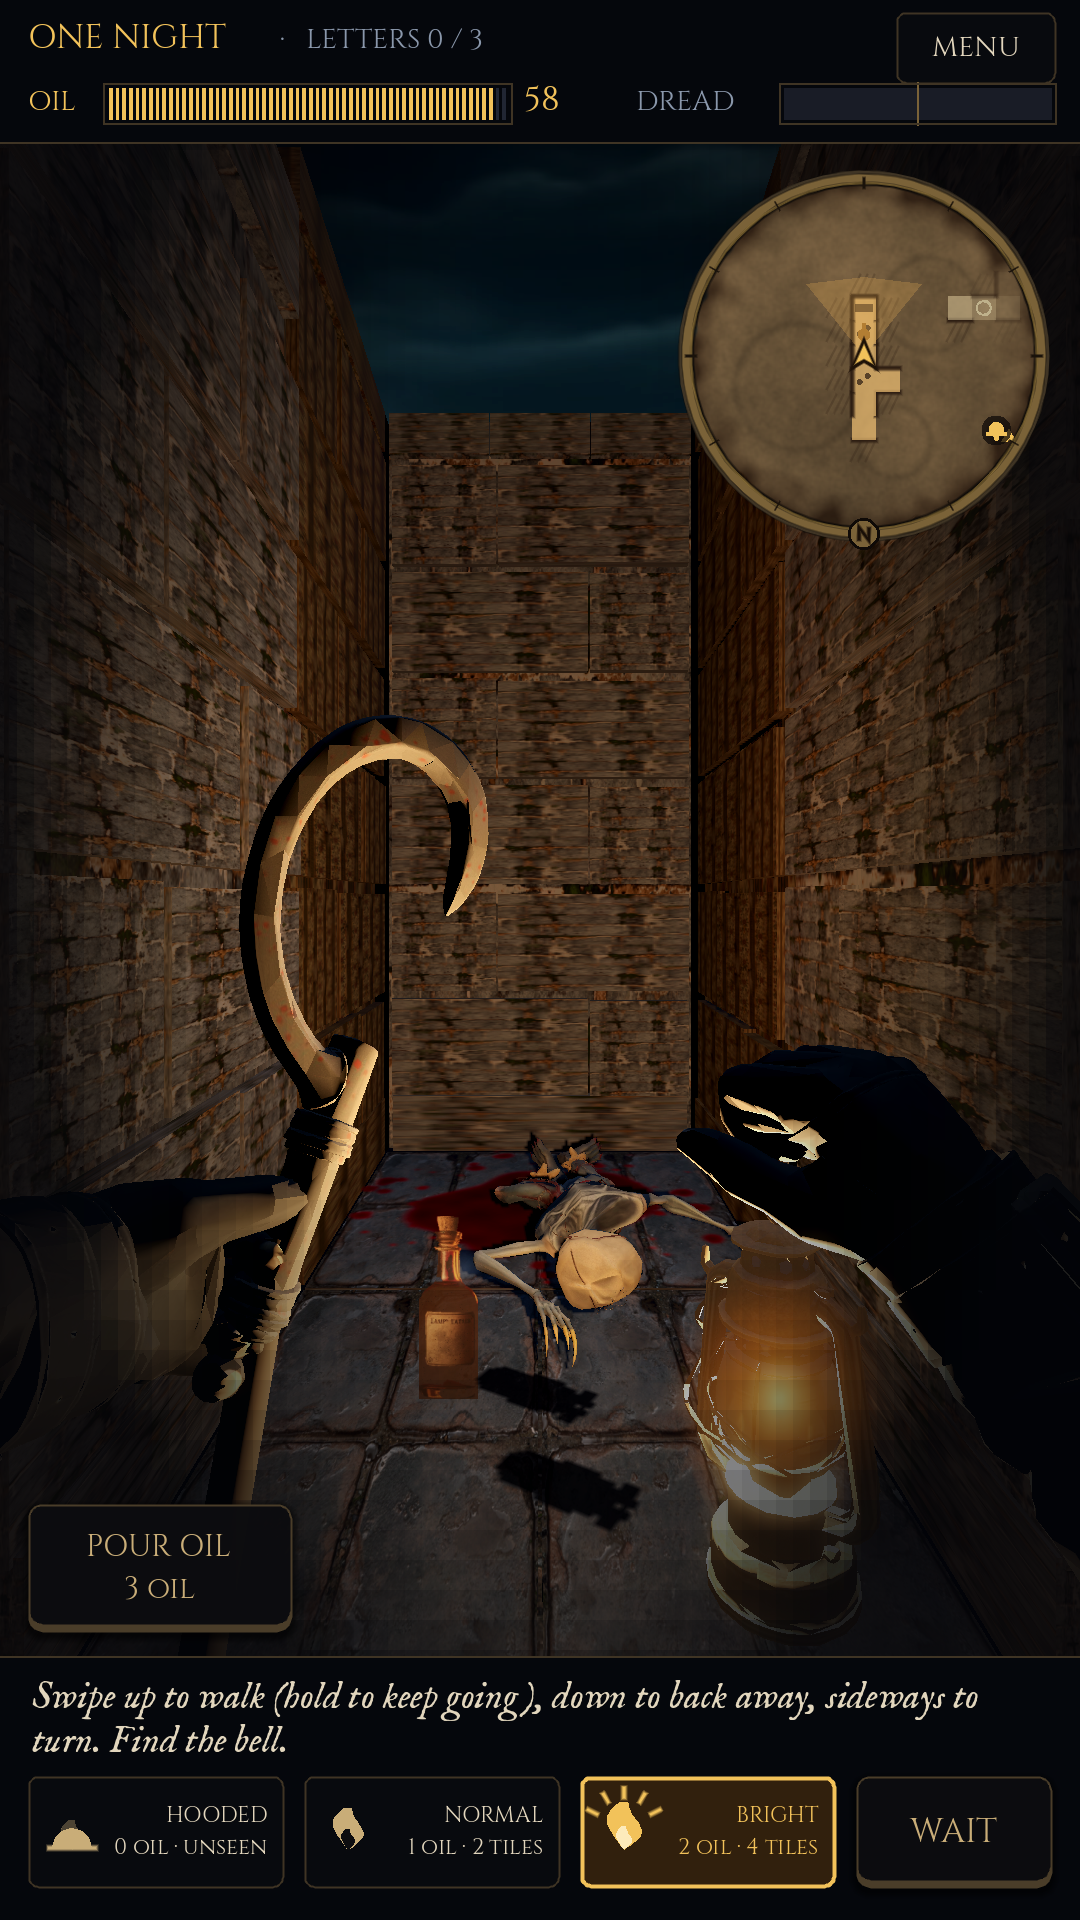
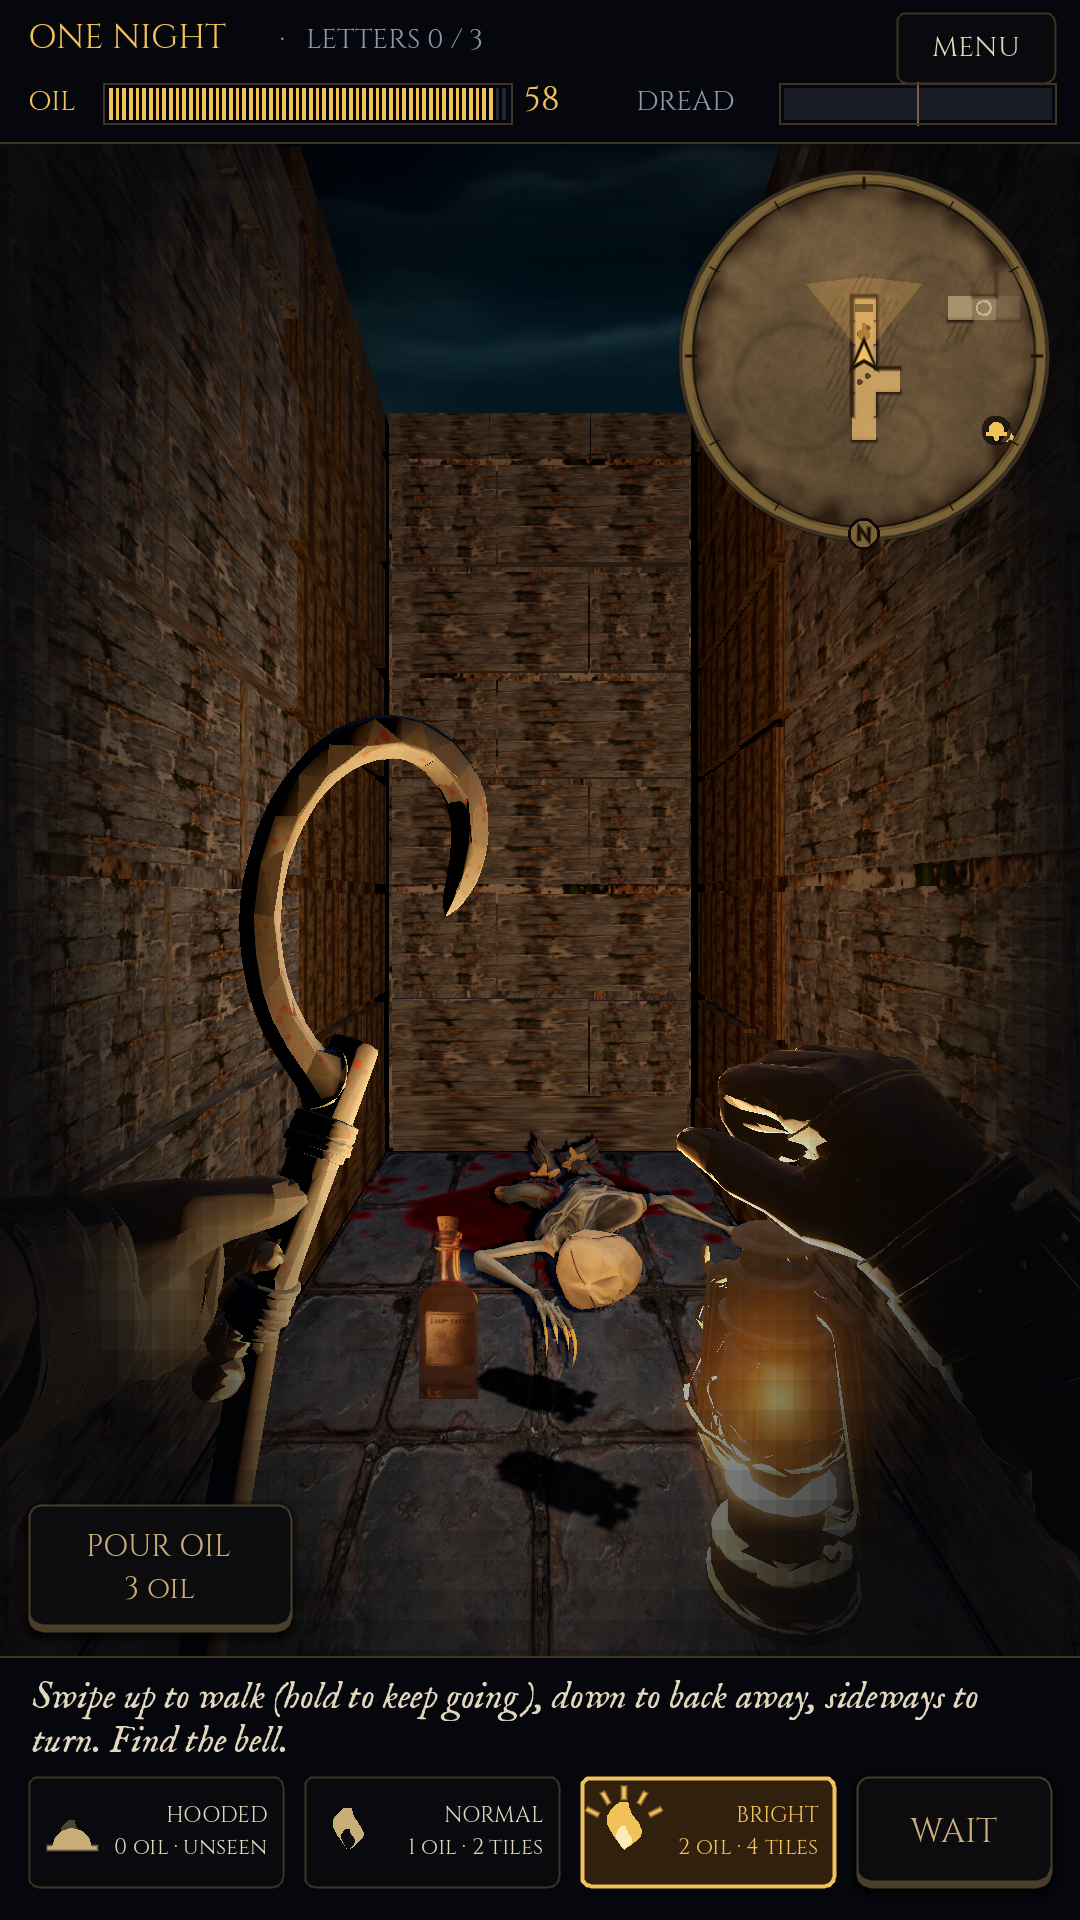
Review fix D: lift the gloves so the fist reads from the eye line (#65)
* Rig pipeline for animated 3D horrors + low-oil lantern sputter

rig_horror.gd drives a Meshy-rigged body from the rules' state (idle, walk,
crouch, lunge, dead, rise); tools/bake_clips.gd bakes clip GLBs into one
AnimationLibrary. Looks only switch to a rig once its GLB exists, so today's
build is unchanged apart from the lantern guttering at 12 oil or less.

Claude-Session: https://claude.ai/code/session_01V3sbxKkfZnVJvnhwbtykWs

* Fully 3D horrors and hands: rigged Meshy thralls + bride, 3D lantern arm and boathook

Four faceless Meshy bodies on the humanoid rig (nightmare, hooded, dock woman,
bride) with real clips driven by the rules: idle, mummy-stagger walk, zombie
scream as the lunge tell, attack, fall dead, arise. Corpses lie in the dead
pose and get up. The bride always turns to you. Your right arm holds a 3D
lantern with the light and glow inside the globe and a pendulum swing; the
left arm shows the boathook while you carry one. Removed the faced thrall.glb
and rigid stalker.glb; painted cards leave the rotation. 250 Meshy credits.

Claude-Session: https://claude.ai/code/session_01V3sbxKkfZnVJvnhwbtykWs

* Review fixes: pause hidden horrors' animation, dead pose without a blend, find the corpse by what it is

Claude-Session: https://claude.ai/code/session_01V3sbxKkfZnVJvnhwbtykWs

* Keep a rise playing out of sight; pause hidden rigs after they're posed

Claude-Session: https://claude.ai/code/session_01V3sbxKkfZnVJvnhwbtykWs
[…]

Changed region(s): [[0.6111, 0.5312, 0.8556, 0.6562], [0.2139, 0.5938, 0.275, 0.6875], [0.8556, 0.5625, 0.8861, 0.5938]]

diff --git a/docs/HANDOFF_LOG.md b/docs/HANDOFF_LOG.md
@@ -659,3 +659,8 @@ From the mock review: one map with fixed walls got learned by night three, and n
 - The view lights HOOK (amber, `UI.lit`), relabels it HOOK IT!, pulses it, and the status line says it's in reach, but only when that thrall stands in LIT fog and isn't a lying corpse: a hidden one never lights the button, or the button would give it away. The field note says what the glow means.
 - Capture: `HOOK GLOW PASS` (lit with a thrall 2 ahead, out once the hit knocks it to 3), render `fp_thrall.png`. Test `test_hook_target_matches_the_swing`.
 - Gotcha: `tools/test.sh` doesn't load `fp_view.gd`, so a type-inference parse error there only shows in the capture (or `--check-only`). Run one of those after view edits.
+
+## Review fix D: a fist you can read (Nov 26)
+- From the eye line the right glove was a near-black blob: the lantern hangs below and in front of it, so its light never reaches the leather you see. `Hands._lift()` gives each glove (both hands) its own material copy: a faint emission from the leather's own texture tinted lantern-warm (`GLOVE_WARM`, `GLOVE_GLOW` 0.1) and a soft rim (`GLOVE_RIM` 0.3, `rim_tint` 0.85 so the rim takes the leather colour, not white).
+- First try was GLOW 0.35 / RIM 0.6 / tint 0.6: the gloves went ghostly pale. Keep it subtle. Render `fp_hands.png`; before/after in project files `lethemoor-3d/review/glove_before_after.png`.
+

diff --git a/CLAUDE.md b/CLAUDE.md
@@ -49,6 +49,7 @@ Search it for a system before you change it.
   `docs/HANDOFF_LOG.md` "Review fix A".
 - Nov 26 review fix B: the flame gutters and a red mark on the chart rim points at the unseen thing (`Night.flicker_from`).
 - Nov 26 review fix C: HOOK glows and reads HOOK IT! while a seen thrall is in the hook's reach (`Night.hook_target`).
+- Nov 26 review fix D: gloves lifted (faint lantern-warm emission + rim, `Hands._lift`, GLOVE_* consts) so the fist reads.
 - Nov 24: Eyes (`docs/EYES.md`): a cloud session can run the night, tap buttons, step, read the HUD
   and screenshot it. Copied from godot-game-starter (Duff: "Add eyes to lethemoor").
 - Builds: `dev` release APK (https://github.com/duffpowell-commits/lethemoor/releases/tag/dev) and

diff --git a/STATUS.md b/STATUS.md
@@ -59,6 +59,7 @@ Open: PR #33 (art generation guide, docs). Draft PR #31 (Duff, Nov 20: the bell 
 
 ## Changelog
 
+- Nov 26: your gloves catch a little of the lantern's warmth and have a soft rim, so the right fist reads as a fist from the eye line instead of a dark blob.
 - Nov 26: with the boathook in hand, the HOOK button glows and reads HOOK IT! whenever a thrall you can see is within its 2-tile reach.
 - Nov 26: when the flame gutters, a red mark on the chart's rim points to whatever unseen thing is near (it lies too when dread is high).
 
